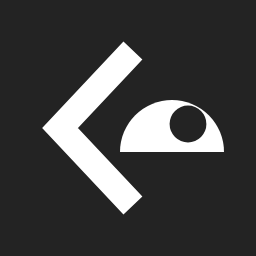
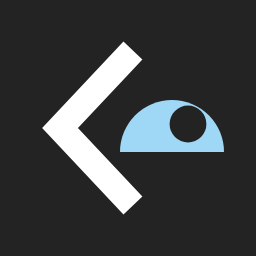
feat(brand): ice blue instead of yellow, and one eye everywhere
The accent becomes a quiet ice blue (#9fd8f7, pale #e3f2fb for blocks):
the web's link colour without the saturated SaaS blue. In the mark the
eye, the part that reads, takes the accent; the diagram, social cards
and icons use the same single eye instead of the old pair.

Also tightens the "Reads the head" block so its text sits under the
heading.

Changed region(s): [[0.4688, 0.375, 0.875, 0.5938]]

diff --git a/website/app/og/[...slug]/route.tsx b/website/app/og/[...slug]/route.tsx
@@ -57,7 +57,7 @@ export async function GET(
 						strokeWidth="6.5"
 						strokeLinecap="square"
 					/>
-					<path d="M30 38a13 13 0 0 1 26 0z" fill="#ffffff" />
+					<path d="M30 38a13 13 0 0 1 26 0z" fill="#9fd8f7" />
 					<circle cx="47" cy="31" r="4.6" fill="#232323" />
 				</svg>
 				<span
@@ -92,7 +92,7 @@ export async function GET(
 					) : (
 						<span style={{ display: "flex", flexWrap: "wrap" }}>
 							Turn any URL into a&nbsp;
-							<span style={{ background: "#ffe14d", padding: "0 10px" }}>
+							<span style={{ background: "#9fd8f7", padding: "0 10px" }}>
 								link preview
 							</span>
 							.
@@ -118,14 +118,8 @@ export async function GET(
 				aria-hidden="true"
 				style={{ position: "absolute", right: 96, bottom: 102 }}
 			>
-				<path
-					fill="#fff"
-					stroke="#232323"
-					strokeWidth="2.5"
-					d="M1.5 24a10.5 10.5 0 0 1 21 0zM25.5 24a10.5 10.5 0 0 1 21 0z"
-				/>
-				<circle cx="10" cy="20" r="3.8" fill="#232323" />
-				<circle cx="34" cy="20" r="3.8" fill="#232323" />
+				<path d="M11 24a13 13 0 0 1 26 0z" fill="#9fd8f7" />
+				<circle cx="28" cy="17" r="4.6" fill="#232323" />
 			</svg>
 			<div
 				style={{
@@ -134,7 +128,7 @@ export async function GET(
 					right: 0,
 					bottom: 96,
 					height: 6,
-					background: "#ffe14d",
+					background: "#9fd8f7",
 				}}
 			/>
 			<div
@@ -152,7 +146,7 @@ export async function GET(
 				<span
 					style={{
 						color: "#232323",
-						background: "#ffe14d",
+						background: "#9fd8f7",
 						padding: "2px 8px",
 					}}
 				>

diff --git a/website/app/global.css b/website/app/global.css
@@ -8,7 +8,8 @@
 /*
  * linkpeek, light only, like a printed spec sheet: white paper, charcoal
  * ink, 1px charcoal rules that cut the page into rectangles, light grey for
- * large shapes, and one pale highlighter yellow. Ordered-dither art is the
+ * large shapes, and one ice blue: pale for blocks, clearer for what linkpeek
+ * reads (the "link" colour of the web, kept quiet). Ordered-dither art is the
  * only texture. Square corners everywhere.
  */
 @theme {
@@ -36,22 +37,22 @@
 	--color-fd-primary-foreground: #ffffff;
 	--color-fd-secondary: #f2f2f1;
 	--color-fd-secondary-foreground: #232323;
-	--color-fd-accent: #fff3a8;
+	--color-fd-accent: #e3f2fb;
 	--color-fd-accent-foreground: #232323;
 	--color-fd-ring: #232323;
 
 	--color-ink: #232323;
 	--color-paper: #ffffff;
 	--color-shape: #d9d9d9;
-	--color-block: #ffef85;
-	--color-mark: #ffe14d;
+	--color-block: #e3f2fb;
+	--color-mark: #9fd8f7;
 	--color-mark-ink: #232323;
 	--color-rule: #dcdcdc;
 	--color-bar: #d9d9d9;
 	--color-signal: #232323;
 	--color-signal-ink: #ffffff;
 	--color-signal-text: #232323;
-	--color-signal-wash: rgb(255 225 77 / 0.45);
+	--color-signal-wash: rgb(159 216 247 / 0.5);
 }
 
 html {
@@ -198,7 +199,7 @@ body {
 	}
 }
 
-/* Hero demo: a highlighter line fills until the next example. */
+/* Hero demo: an ice line fills until the next example. */
 .rotate-progress {
 	width: 0;
 }

diff --git a/website/components/gaze.tsx b/website/components/gaze.tsx
@@ -88,13 +88,13 @@ export function useGaze(
 }
 
 /**
- * The brand's eyes peeking over whatever edge they sit on. Place them so
+ * The brand's eye peeking over whatever edge it sits on. Place them so
  * their flat bottom touches the edge.
  */
 export function PeekingEyes({
 	className,
 	style,
-	sclera = "#ffffff",
+	sclera = "#9fd8f7",
 	pupil = "#0b0b0c",
 	outline,
 }: {
@@ -119,14 +119,13 @@ export function PeekingEyes({
 			style={style}
 		>
 			<path
-				d="M1.5 24a10.5 10.5 0 0 1 21 0zM25.5 24a10.5 10.5 0 0 1 21 0z"
+				d="M11 24a13 13 0 0 1 26 0z"
 				fill={sclera}
 				stroke={outline}
-				strokeWidth={outline ? 2 : 0}
+				strokeWidth={outline ? 1.5 : 0}
 			/>
 			<motion.g style={{ x, y }}>
-				<circle cx="12" cy="18.5" r="4" fill={pupil} />
-				<circle cx="36" cy="18.5" r="4" fill={pupil} />
+				<circle cx="27.5" cy="17.5" r="4.6" fill={pupil} />
 			</motion.g>
 		</svg>
 	);

diff --git a/website/app/(home)/page.tsx b/website/app/(home)/page.tsx
@@ -159,7 +159,7 @@ export default async function HomePage() {
 
 			{/* Why it is fast. */}
 			<section className="grid border-ink border-b lg:grid-cols-4">
-				<div className="flex flex-col justify-between gap-10 bg-ink px-5 py-10 text-white sm:px-8 lg:col-span-1 lg:py-12">
+				<div className="flex flex-col gap-6 bg-ink px-5 py-10 text-white sm:px-8 lg:col-span-1 lg:py-12">
 					<h2 className="font-normal text-[clamp(2.25rem,3.6vw,3.5rem)] uppercase leading-[0.92] tracking-[-0.04em]">
 						Reads the head. Skips the rest.
 					</h2>

diff --git a/website/components/logo.tsx b/website/components/logo.tsx
@@ -13,7 +13,7 @@ export function Mark({ className = "size-6" }: { className?: string }) {
 				strokeWidth="6.5"
 				strokeLinecap="square"
 			/>
-			<path d={mark.eye} fill="#ffffff" />
+			<path d={mark.eye} fill="#9fd8f7" />
 			<circle
 				className="peek-pupils"
 				cx={mark.pupil.cx}

diff --git a/AGENTS.md b/AGENTS.md
@@ -29,8 +29,8 @@
 - `npm run build --prefix website` also runs `scripts/check-site.mjs` (one H1, canonical, social tags, JSON-LD, Markdown twins, links, sitemap). Keep it passing.
 
 ## Brand
-- The mark is an HTML angle bracket and an eye peeking over a hidden line ("<peek"), white on a charcoal `#232323` square. Geometry lives in `website/lib/mark.json` and drives the logo, favicon and the giant dithered art. Brand files are in `assets/brand/`.
-- Light only, like a printed spec sheet (inspired by aspensearch.com, not copied): white paper, charcoal ink `#232323`, 1px charcoal rules cutting the page into rectangles, light grey `#d9d9d9` for big shapes, pale yellow `#ffef85` blocks and highlighter `#ffe14d` as the only colour. Ordered-dither canvas art is the only texture. Geist for text, Geist Mono for small uppercase labels, code and data. Square corners.
+- The mark is an HTML angle bracket and an eye peeking over a hidden line ("<peek"), a white bracket and an ice-blue `#9fd8f7` eye on a charcoal `#232323` square. Geometry lives in `website/lib/mark.json` and drives the logo, favicon and the giant dithered art. Brand files are in `assets/brand/`.
+- Light only, like a printed spec sheet (inspired by aspensearch.com, not copied): white paper, charcoal ink `#232323`, 1px charcoal rules cutting the page into rectangles, light grey `#d9d9d9` for big shapes, pale ice `#e3f2fb` blocks and ice blue `#9fd8f7` as the only colour (it marks what linkpeek reads). Ordered-dither canvas art is the only texture. Geist for text, Geist Mono for small uppercase labels, code and data. Square corners.
 
 ## Demo preview endpoint
 - `demo-api/` is the Vercel project `gubastudio/linkpeek-playground` (`https://linkpeek-playground.vercel.app/api/preview`), used by the homepage's "try any URL" demo. It deploys from Git with root directory `demo-api` (production from `main`); builds are skipped when the last commit does not touch `demo-api/`.
